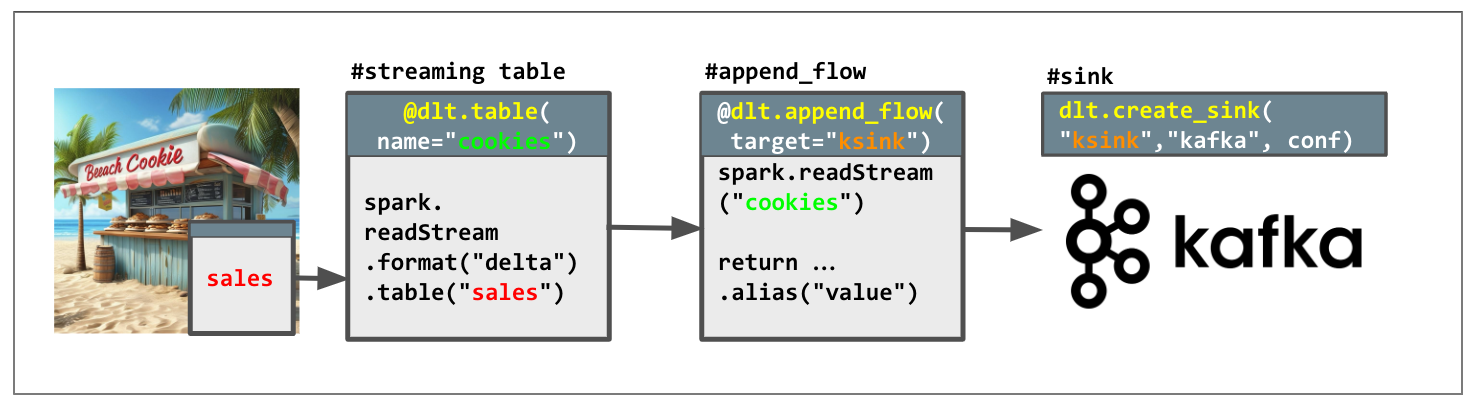
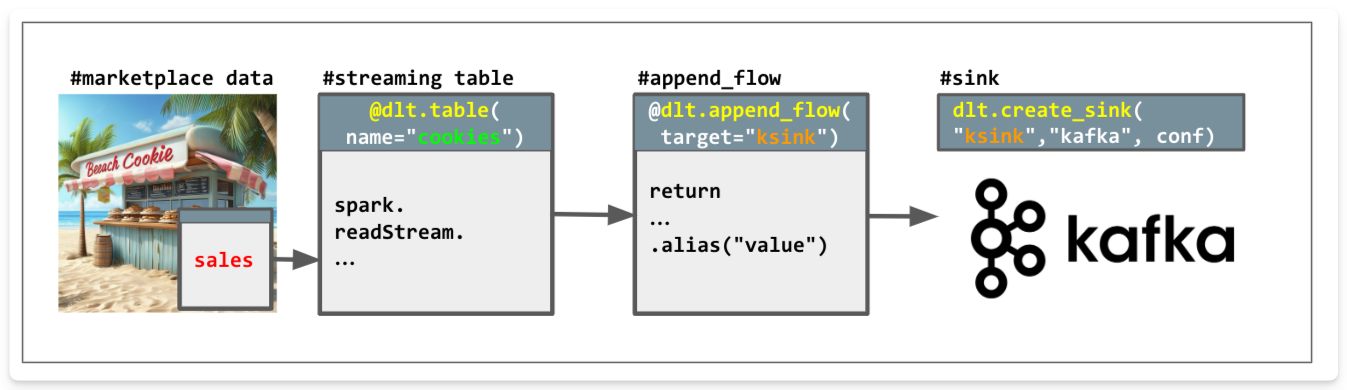
updated

Changed region(s): [[0.0, 0.0, 0.9978, 0.9846]]

diff --git a/DLT-Kafka-Sink/DLT Kafka Sink.py b/DLT-Kafka-Sink/DLT Kafka Sink.py
@@ -5,19 +5,11 @@
 
 # COMMAND ----------
 
-# MAGIC %md
-# MAGIC # Set api keys in Databricks scopes
-# MAGIC
-# MAGIC
-# MAGIC DLT is reading the Confluent Kafka credential from a secret scope, see README. 
-# MAGIC
-
-# COMMAND ----------
-
-# DBTITLE 1,Kafka CX Details
+# DBTITLE 1,Kafka CX Details + API keys from secret scope
 # kafka properties
 BOOTSTRAP = "pkc-rgm37.us-west-2.aws.confluent.cloud:9092"
 TOPIC = "cookie_topic"
+
 # get api keys
 confluentApiKey = dbutils.secrets.get(scope="fm-kafka-sink", key="confluentApiKey")
 confluentSecret = dbutils.secrets.get(scope="fm-kafka-sink", key="confluentSecret")
@@ -52,15 +44,13 @@ dlt.create_sink(
 
 # COMMAND ----------
 
-# DBTITLE 1,Get Bakehouse Sales Transactions
-
-
-
+# DBTITLE 1,Get Bakehouse Sales Transaction Stream
 @dlt.table(
     name="cookie_sales",
     comment="Raw cookie sales stream",
     table_properties={"quality": "bronze"}
 )
+@dlt.expect_or_drop("totalPrice_non_null", "totalPrice IS NOT NULL")
 def get_cookie_sales():
     # Create a temp Delta table
     return (spark.readStream 
@@ -68,11 +58,14 @@ def get_cookie_sales():
         .option("maxBytesPerTrigger", 500) 
         .option("maxFilesPerTrigger", 1) 
         .table("bakehouse.sales.transactions")
+        .filter("totalPrice > 25")
     )
 
 # COMMAND ----------
 
-@dlt.append_flow(name = "cookie_sales_silver_appendflow", target = "my_kafka_sink", comment="Processed cookie sales with hourly aggregation")
+@dlt.append_flow(name = "cookie_sales_silver_appendflow", 
+                 target = "my_kafka_sink", 
+                 comment="Processed cookie sales with hourly aggregation")
 def process_cookie_sales():
     df = dlt.read_stream("cookie_sales")
     return df.select(to_json(struct("dateTime", "product", "quantity","totalPrice")).alias("value"))

diff --git a/DLT-Kafka-Sink/README.md b/DLT-Kafka-Sink/README.md
@@ -8,15 +8,16 @@ A Delta Live Tables pipeline that reads cookie sales data and streams it to Conf
 ## Overview
 This pipeline demonstrates:
 - Reading from a Delta table source 
-- Processing records in Delta Live Tables
+- Processing and filtering records in Delta Live Tables
 - Sinking transformed data to a Confluent Cloud Kafka topic
 - Using Databricks secrets for secure credential management
 
 ## Prerequisites
 - Databricks workspace
 - Confluent Cloud account and credentials
-- Access to bakehouse.sales.transactions Delta table
-- Databricks CLI installed
+- Databricks CLI installed to set up access for Confluent credentials as secrets in Databricks
+- Get the dataset from [Databricks Marketplace](https://marketplace.databricks.com/details/f8498740-31ea-49f8-9206-1bbf533f3993/Databricks_Cookies-Dataset-DAIS-2024-) and confirm you can access the bakehouse.sales.transactions Delta table.
+
 
 ## Quick Start
 1. Set Up Secrets
@@ -27,24 +28,16 @@ databricks secrets put-secret fm-kafka-sink confluentSecret --string-value <your
 ```
 
 2. Configure Pipeline
-Update these variables in dlt_kafka_sink.py:
 
+Update these variables in the pipeline source file dlt_kafka_sink.py (or extract them into pipeline configuration values):
+```
 BOOTSTRAP = "your-bootstrap-server"  # From Confluent Cloud
-TOPIC = "your-topic-name"           # Your target Kafka topic
+TOPIC = "your-topic-name"            # Your target Kafka topic
+```
+3. Create Pipeline Settings
 
-3. Create Pipeline
-- Upload dlt_kafka_sink.py to your Databricks workspace
-- Create and configure a new serverless DLT pipeline using this file
+- Create and configure a new serverless DLT pipeline in your workspace under "Pipelines" using the SQL source file
 
-## Data Flow
-1. Step1 (cookie_sales)
-- Reads from bakehouse.sales.transactions
-- Controlled streaming with trigger settings
-
-2. Step2
-- Transforms data to JSON format
-- Fields: dateTime, product, quantity, totalPrice
-- Streams to Confluent Kafka topic
 
 ## Security
 - Uses SASL/SSL for Kafka authentication
